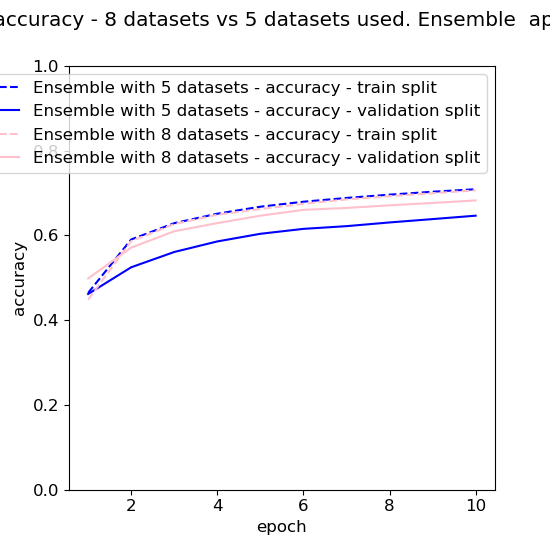
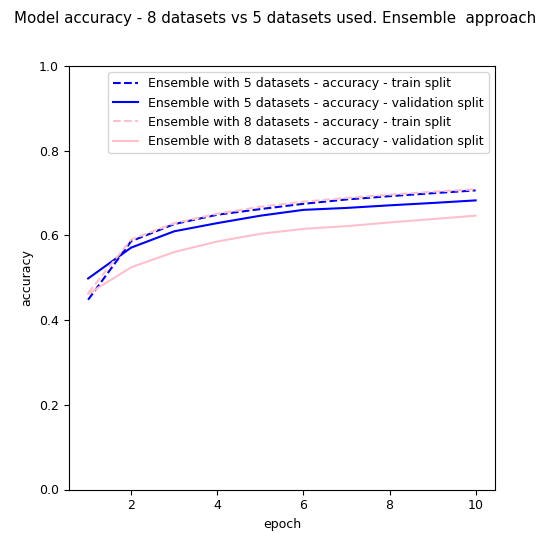
fixed labeles

diff --git a/src/results/ensemble_dba_5_vs_8/get_metrics_per_epoch.py b/src/results/ensemble_dba_5_vs_8/get_metrics_per_epoch.py
@@ -31,14 +31,14 @@ class BaselineVsEnsembleResults(Results):
 
     def _prepare_legend(self, text: str):
         mapping = {
-            self.first_result_key_name_loss: "Ensemble with 5 datasets - loss - train split",
-            self.first_result_key_name_val_loss: "Ensemble with 5 datasets - loss - validation split",
-            self.first_result_key_name_acc: "Ensemble with 5 datasets - accuracy - train split",
-            self.first_result_key_name_val_acc: "Ensemble with 5 datasets - accuracy - validation split",
-            self.second_result_key_name_loss: "Ensemble with 8 datasets - loss - train split",
-            self.second_result_key_name_val_loss: "Ensemble with 8 datasets - loss - validation split",
-            self.second_result_key_name_acc: "Ensemble with 8 datasets - accuracy - train split",
-            self.second_result_key_name_val_acc: "Ensemble with 8 datasets - accuracy - validation split",
+            self.first_result_key_name_loss: "Ensemble with 8 datasets - loss - train split",
+            self.first_result_key_name_val_loss: "Ensemble with 8 datasets - loss - validation split",
+            self.first_result_key_name_acc: "Ensemble with 8 datasets - accuracy - train split",
+            self.first_result_key_name_val_acc: "Ensemble with 8 datasets - accuracy - validation split",
+            self.second_result_key_name_loss: "Ensemble with 5 datasets - loss - train split",
+            self.second_result_key_name_val_loss: "Ensemble with 5 datasets - loss - validation split",
+            self.second_result_key_name_acc: "Ensemble with 5 datasets - accuracy - train split",
+            self.second_result_key_name_val_acc: "Ensemble with 5 datasets - accuracy - validation split",
         }
         return mapping[text]
 
